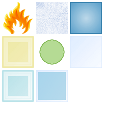
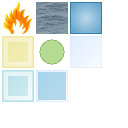
Changed main menu. Changed grapics. Changed LevelSelect grid.

Changed region(s): [[0.2812, 0.0, 0.5312, 0.2812]]

diff --git a/src/com/bugfullabs/icemaze/MainMenuActivity.java b/src/com/bugfullabs/icemaze/MainMenuActivity.java
@@ -10,12 +10,15 @@ import org.andengine.entity.modifier.FadeOutModifier;
 import org.andengine.entity.modifier.IEntityModifier.IEntityModifierListener;
 import org.andengine.entity.primitive.Rectangle;
 import org.andengine.entity.scene.Scene;
-import org.andengine.entity.scene.background.Background;
+import org.andengine.entity.scene.background.SpriteBackground;
+import org.andengine.entity.sprite.Sprite;
 import org.andengine.opengl.font.StrokeFont;
 import org.andengine.opengl.texture.TextureOptions;
 import org.andengine.opengl.texture.atlas.bitmap.BitmapTextureAtlas;
 import org.andengine.opengl.texture.region.TiledTextureRegion;
 import org.andengine.ui.activity.SimpleBaseGameActivity;
+import org.andengine.util.HorizontalAlign;
+import org.andengine.util.VerticalAlign;
 import org.andengine.util.modifier.IModifier;
 import org.andengine.util.texturepack.TexturePack;
 import org.andengine.util.texturepack.TexturePackLoader;
@@ -31,6 +34,7 @@ import android.view.KeyEvent;
 
 import com.bugfullabs.icemaze.level.Level;
 import com.bugfullabs.icemaze.level.LevelFileReader;
+import com.bugfullabs.icemaze.util.AlignedText;
 import com.bugfullabs.icemaze.util.Button;
 
 
@@ -88,7 +92,10 @@ public class MainMenuActivity extends SimpleBaseGameActivity{
 
 	private boolean inStart = true;
 	
-
+  	private Button next;
+  	private Button back;
+	
+	
 	
 	@Override
 	public EngineOptions onCreateEngineOptions() {
@@ -99,7 +106,7 @@ public class MainMenuActivity extends SimpleBaseGameActivity{
 		MainMenuActivity.cameraHeight = disp.getHeight();
 		
 		marginX = cameraWidth/2 - ((offsetX)*(NUMBER_OF_ITEMS_IN_ROW/2));
-		marginY = cameraHeight/2 - (((offsetY)*((NUMBER_OF_ITEMS/NUMBER_OF_ITEMS_IN_ROW)/2)));
+		marginY = cameraHeight/2 - (((offsetY)*((NUMBER_OF_ITEMS/NUMBER_OF_ITEMS_IN_ROW)/2))) + offsetY + 16;
 		
 		mSettings = getSharedPreferences(GameValues.SETTINGS_FILE, 0);
 		mEditor = mSettings.edit();
@@ -132,10 +139,10 @@ public class MainMenuActivity extends SimpleBaseGameActivity{
         
        
         TexturePackTextureRegion shortTextureRegion = mTextures.get(GameValues.BUTTONSHORT_ID);
-        mButtonShortRegion = TiledTextureRegion.create(mTexturePack.getTexture(), shortTextureRegion.getSourceX(), shortTextureRegion.getSourceY(), shortTextureRegion.getSourceWidth(), shortTextureRegion.getSourceHeight(), 2, 1);
+        mButtonShortRegion = TiledTextureRegion.create(mTexturePack.getTexture(), (int) shortTextureRegion.getTextureX(), (int)shortTextureRegion.getTextureY(), shortTextureRegion.getSourceWidth(), shortTextureRegion.getSourceHeight(), 2, 1);
        
         TexturePackTextureRegion textureRegion = mTextures.get(GameValues.BUTTONLONG_ID);
-        mButtonLongRegion = TiledTextureRegion.create(mTexturePack.getTexture(), textureRegion.getSourceX(), textureRegion.getSourceY(), textureRegion.getSourceWidth(), textureRegion.getSourceHeight(), 2, 1);
+        mButtonLongRegion = TiledTextureRegion.create(mTexturePack.getTexture(), (int) textureRegion.getTextureX(), (int) textureRegion.getTextureY(), textureRegion.getSourceWidth(), textureRegion.getSourceHeight(), 2, 1);
         
      
         mFontTexture.load();
@@ -146,12 +153,15 @@ public class MainMenuActivity extends SimpleBaseGameActivity{
 	@Override
 	protected Scene onCreateScene() {
 		this.mMainScene = new Scene();
-		mMainScene.setBackground(new Background(0.34f, 0.42f, 0.73f));
+		mMainScene.setBackground(new SpriteBackground(new Sprite(0, 0, mTextures.get(GameValues.BG_ID), getVertexBufferObjectManager())));
 		
 		this.mOptionsScene = new Scene();
-		mOptionsScene.setBackground(new Background(0.54f, 0.92f, 0.33f));
+		mOptionsScene.setBackground(new SpriteBackground(new Sprite(0, 0, mTextures.get(GameValues.BG_ID), getVertexBufferObjectManager())));
 		
-
+		mMainScene.attachChild(new Sprite(0, 0, mTextures.get(GameValues.TITLE_ID), getVertexBufferObjectManager()));
+		mOptionsScene.attachChild(new Sprite(0, 0, mTextures.get(GameValues.SETTINGS_ID), getVertexBufferObjectManager()));
+		
+		
 		setLevelSelectGrid();
 		
 		
@@ -250,13 +260,56 @@ public class MainMenuActivity extends SimpleBaseGameActivity{
 	  	mGridScene = new Scene();
 
 	  	
+	  	
 	  	//final Sprite bg = new Sprite(0, 0, mBackgroundTextureRegion, getVertexBufferObjectManager());
 	  	//bg.setWidth(cameraWidth);
 	  	//bg.setHeight(cameraHeight);
 	  	//mGridScene.setBackground(new SpriteBackground(bg));
-	  	mGridScene.setBackground(new Background(0.654f, 0.312f, 0.73f));
+	  	mGridScene.setBackground(new SpriteBackground(new Sprite(0, 0, mTextures.get(GameValues.BG_ID), getVertexBufferObjectManager())));
+		
+		mGridScene.attachChild(new Sprite(0, 0, mTextures.get(GameValues.LEVELSELECT_ID), getVertexBufferObjectManager()));
+		
 
+	  	final AlignedText levelpack = new AlignedText(0,  marginY - 72, mFont, "LEVELPACK: " + Integer.toString(levelpackId), HorizontalAlign.CENTER, VerticalAlign.CENTER, cameraWidth, 24, this);
+	  	
+	  	mGridScene.attachChild(levelpack);	  
 
+	  	back = new Button(this, mGridScene, marginX - (36 + 128) , marginY + offsetY -36, 72, 72, "-", mButtonShortRegion, mFont){
+	  		@Override
+	  		public boolean onButtonPressed(){
+				
+	  			if(levelpackId > 1){
+	  			levelpackId--;	
+	  			levelpack.setText("LEVELPACK: " + Integer.toString(levelpackId));
+	  			next.setVisible(true);	
+	  			if(levelpackId <= 1){
+	  			back.setVisible(false);
+	  			}
+	  			}
+				return true;
+			  }
+	  	};
+	  	
+	  	back.setVisible(false);
+	  	
+	  	next = new Button(this, mGridScene,  cameraWidth - marginX - 36 + 128 , marginY + offsetY -36, 72, 72, "+", mButtonShortRegion, mFont){
+	  		@Override
+	  		public boolean onButtonPressed(){
+	  			
+				if(levelpackId < GameValues.LEVELPACKS){
+	  			levelpackId++;
+	  			levelpack.setText("LEVELPACK: " + Integer.toString(levelpackId));
+	  			back.setVisible(true);
+	  			if(levelpackId >= GameValues.LEVELPACKS){
+	  			this.setVisible(false);
+	  			}
+				}
+				return true;
+			  }
+
+	  	};
+	  	
+	
 	  	  int i = 0;
 
 	  	  
@@ -265,6 +318,8 @@ public class MainMenuActivity extends SimpleBaseGameActivity{
 				for(int k = 0; k < NUMBER_OF_ITEMS_IN_ROW; k++){
 
 				final int id = i + 1;
+				
+				//TODO: DONE LEVELS
 				
 				new Button(this, mGridScene,  marginX + (k * offsetX) - 36, marginY + (j * offsetY)- 36, 72, 72, Integer.toString(id),  mButtonShortRegion, mFont){
 	    			  @Override

diff --git a/src/com/bugfullabs/icemaze/GameActivity.java b/src/com/bugfullabs/icemaze/GameActivity.java
@@ -59,8 +59,9 @@ import com.bugfullabs.icemaze.util.AlignedText;
 
 //FIXME: CHECK IF LEVEL IS NOT NULL
 //TODO: COUNT TIME
-//TIME: COUNT TILES CRASHED
-
+//TODO: COUNT TILES CRASHED
+//TODO: FADE TRANSITION BETWEEN LEVELS
+//TODO: SCORE SYSTEM
 
 public class GameActivity extends SimpleBaseGameActivity implements IOnMenuItemClickListener, IOnSceneTouchListener{
 
@@ -103,6 +104,8 @@ public class GameActivity extends SimpleBaseGameActivity implements IOnMenuItemC
 	
 	private boolean canExit = false;
 
+	private boolean nextLevel = false;
+	
 	/* BASE ENGINE & GAME FUNCTIONS */
 	
 	@Override
@@ -253,9 +256,10 @@ public class GameActivity extends SimpleBaseGameActivity implements IOnMenuItemC
 					
 					@Override
 					public void onModifierFinished(IModifier<IEntity> pModifier, IEntity pItem) {
-					
-					nextLevel();
-						
+						if(!nextLevel){
+						nextLevel = true;
+						nextLevel();
+						}
 					}
 				}, EaseSineIn.getInstance()));
 				
@@ -571,7 +575,7 @@ public class GameActivity extends SimpleBaseGameActivity implements IOnMenuItemC
 			stars[i].detachSelf();
 			stars[i] = null;
 			}
-			
+			nextLevel = false;
 		}
 		
 		level.getPlayer().detachSelf();

diff --git a/src/com/bugfullabs/icemaze/GameValues.java b/src/com/bugfullabs/icemaze/GameValues.java
@@ -30,13 +30,23 @@ public interface GameValues{
 	
 	/* MAIN MENU */
 
-	public static final int BUTTONLONG_ID = 0;
-	public static final int BUTTONSHORT_ID = 1;
+	public static final int BG_ID = 0;
+	public static final int BUTTONLONG_ID = 1;
+	public static final int BUTTONSHORT_ID = 2;
+	public static final int BUTTONSHORTDONE_ID = 3;
+	public static final int LEVELSELECT_ID = 4;
+	public static final int SETTINGS_ID = 5;
+	public static final int TITLE_ID = 6;
 	
 	/* SHARED PREFS */
 	public static final String SETTINGS_FILE = "Settings";
 	public static final int STEERING_TOUCH = 0;
 	public static final int STEERING_SLIDE = 1;
+	
+	
+	/* GAME VALUES */
+	
+	public static final int LEVELPACKS = 2;
 	
 	
 }

diff --git a/src/com/bugfullabs/icemaze/util/Button.java b/src/com/bugfullabs/icemaze/util/Button.java
@@ -86,6 +86,16 @@ public class Button{
 		bgButton.setPosition(x, y);
 	}
 	
+	
+	public void setVisible(boolean b) {
+		
+		textButton.setVisible(b);
+		bgButton.setVisible(b);
+		
+	}
+	
+	
+	
 	public boolean onButtonPressed(){
 		return false;
 	}
@@ -108,6 +118,8 @@ public class Button{
 		
 		return (int) this.bgButton.getWidth();
 	}
+	
+	
 	
 	
 	void detachSelf(){
